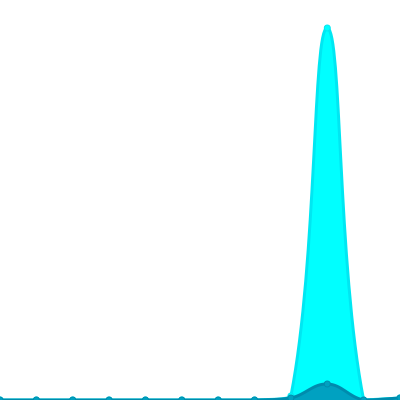
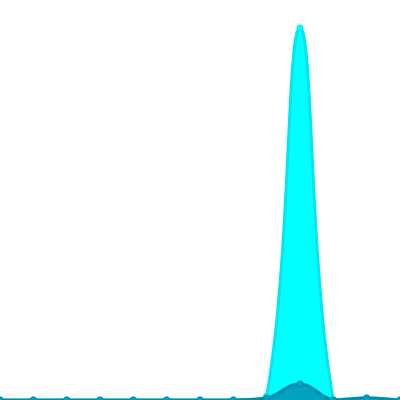
Update views

diff --git a/README.md b/README.md
@@ -26,7 +26,7 @@ The project created and maintained by [gayanvoice](https://github.com/gayanvoice
 			</a>
 		</td>
 		<td>
-			2022/11/29 12:40 AM UTC
+			2022/11/30 12:40 AM UTC
 		</td>
 		<td>
 			13
@@ -37,7 +37,7 @@ The project created and maintained by [gayanvoice](https://github.com/gayanvoice
 	</tr>
 </table>
 
-<small><i>Last updated on 2022/12/1 6:09 PM UTC</i></small>
+<small><i>Last updated on 2022/12/2 12:37 AM UTC</i></small>
 
 ## ✂Copy and 📋 Paste
 ### Total Views Badge

diff --git a/readme/465495654/year.md b/readme/465495654/year.md
@@ -20,6 +20,17 @@
 	</tr>
 	<tr>
 		<td>
+			<code>2022/12/1</code>
+		</td>
+		<td>
+			<code>0</code>
+		</td>
+		<td>
+			<code>0</code>
+		</td>
+	</tr>
+	<tr>
+		<td>
 			<code>2022/11/1</code>
 		</td>
 		<td>
@@ -153,7 +164,7 @@
 </table>
 
 </details>
-<small><i>Last updated on 2022/12/1 6:09 PM UTC</i></small>
+<small><i>Last updated on 2022/12/2 12:37 AM UTC</i></small>
 
 ## ✂Copy and 📋 Paste
 ### SVG Badge
